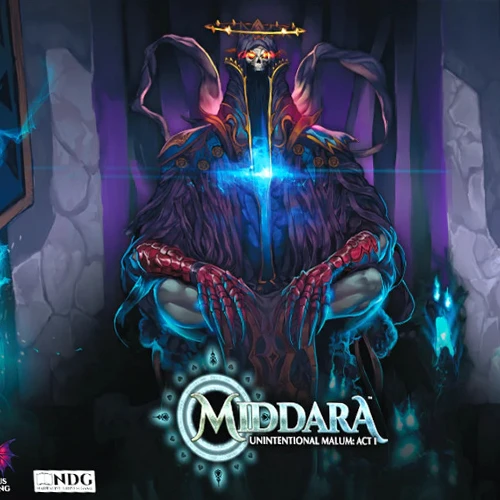
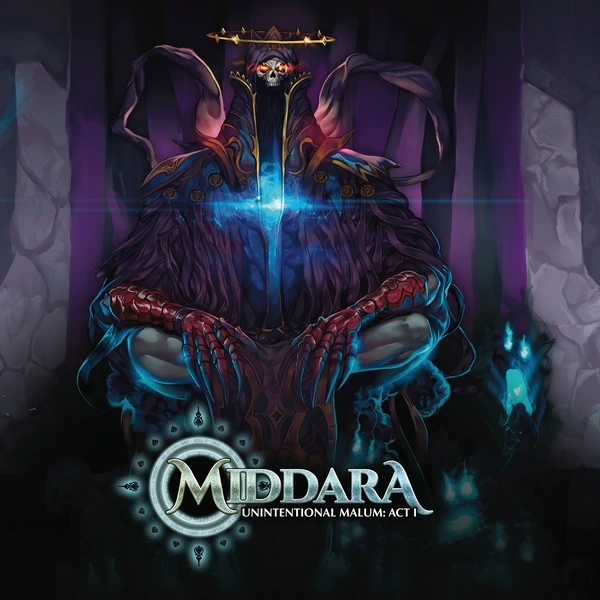
FEAT: fix Middara

diff --git a/AGENTS.md b/AGENTS.md
@@ -87,7 +87,7 @@ To add support for a new board game (e.g. *Frosthaven*, *Oathsworn*, or *Pandemi
 1. Create a dedicated folder under `games/{game-id}/` where `{game-id}` is the unique identifier of the game (lowercase, alphanumeric, with hyphens).
 2. Inside `games/{game-id}/`:
    - `game.json`: Invariant configuration (id, title, releaseYear, designers, player counts, BGG stats, scenario timings, unitType, theme colors/fonts/emblem, public sources, and scope options). Note: omit `"backgroundImage"` or let it default to `"background.webp"` (unless intentionally disabled via `"backgroundImage": null`).
-   - `cover.webp`: Photo of the front box cover (cropped 1:1 square WebP format).
+   - `cover.webp`: Flat 2D art of the front box cover (cropped 1:1 square WebP format). Always prefer a direct, clean "flat" image/graphic of the cover art rather than a photo, 3D render, or perspective shot of the physical box with surroundings or background.
    - `background.webp`: Themed background illustration/artwork for the application (widescreen ~16:9 WebP format). Every game has this background image. It renders as a fixed, subtle atmospheric backdrop behind the app when the game is selected, styled with theme-aware opacity to ensure content remains visible and readable.
    - `translations/`: Directory with localized strings (`en.json`, `es.json`, `de.json`, `fr.json`, `it.json`). Each translation file provides localized `subtitle`, `tagline`, `loreSummary`, `badgeCategory`, `roadmapTitle`, `roadmapBadge`, `keyFeatures`, and scope names/descriptions.
 3. That's it! The application automatically discovers all games and translations at build time via embedded resources and serves images through `games/{game-id}/cover.webp` and `games/{game-id}/background.webp`. Zero C# code changes or switch statements required.

diff --git a/.agents/skills/add-game/SKILL.md b/.agents/skills/add-game/SKILL.md
@@ -116,8 +116,11 @@ See the full annotated reference: [game-json-reference.md](./references/game-jso
 ## Step 4 — Prepare Images
 
 ### cover.webp
-- **Content**: Front box art, tightly cropped.
-- **Aspect ratio**: **1:1 square**.
+- **Content**: Direct "flat" 2D front box art/illustration, tightly cropped.
+  Always prefer a clean, flat 2D graphic or digital artwork of the front cover
+  over a photo, 3D angled render, or perspective mock-up of the box.
+- **Aspect ratio**: **1:1 square** (centered cleanly on key art and title,
+  removing partial logos or background bleed).
 - **Format**: WebP.
 - **Recommended size**: 400x400 px to 600x600 px.
 - **Source**: Publisher press kit, BGG image gallery (check licence), or
